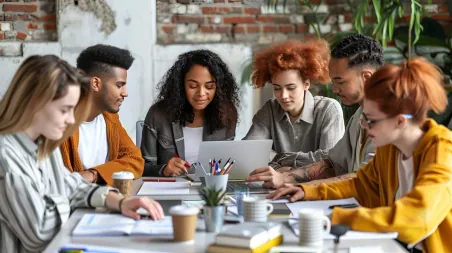
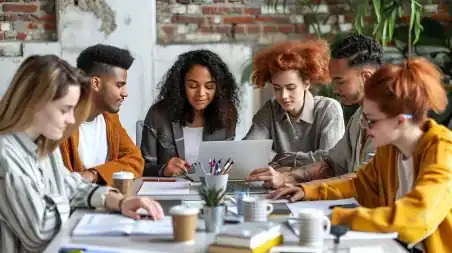
perf: Update footer image, remove scroll animation attributes, and add lazy loading to the footer component.

diff --git a/src/components/Footer.js b/src/components/Footer.js
@@ -90,17 +90,10 @@ const Footer = () => {
 
   return (
     <footer
-      data-scroll
-      data-scroll-class="is-inview"
-      data-scroll-repeat="true"
-      className={`fade-in-section sp-container ${styles.footerWrap}`}
-      style={{ animationDelay: "0.2s" }}>
+      className={`sp-container ${styles.footerWrap}`}
+    >
       <div
-        className={`fade-in-section ${styles.footerTop}`}
-        data-scroll
-        data-scroll-class="is-inview"
-        data-scroll-repeat="true"
-        style={{ animationDelay: "0.1s" }}
+        className={`${styles.footerTop}`}
       >
         <h3 className={styles.footerTitle}>
           REVOLUTIONIZING THE WAY STUDENTS LEARN
@@ -109,14 +102,11 @@ const Footer = () => {
           <div className={styles.footerTop}>
             <Image
               src="/images/footerImage.webp"
-              data-scroll
-              data-scroll-class="is-clipped"
-              data-scroll-repeat="true"
-              data-scroll-offset="-10%"
               alt="Footer"
               className={`${styles.footerMainImg}`}
               width={452}
               height={250}
+              loading='lazy'
             />
           </div>
           <div
